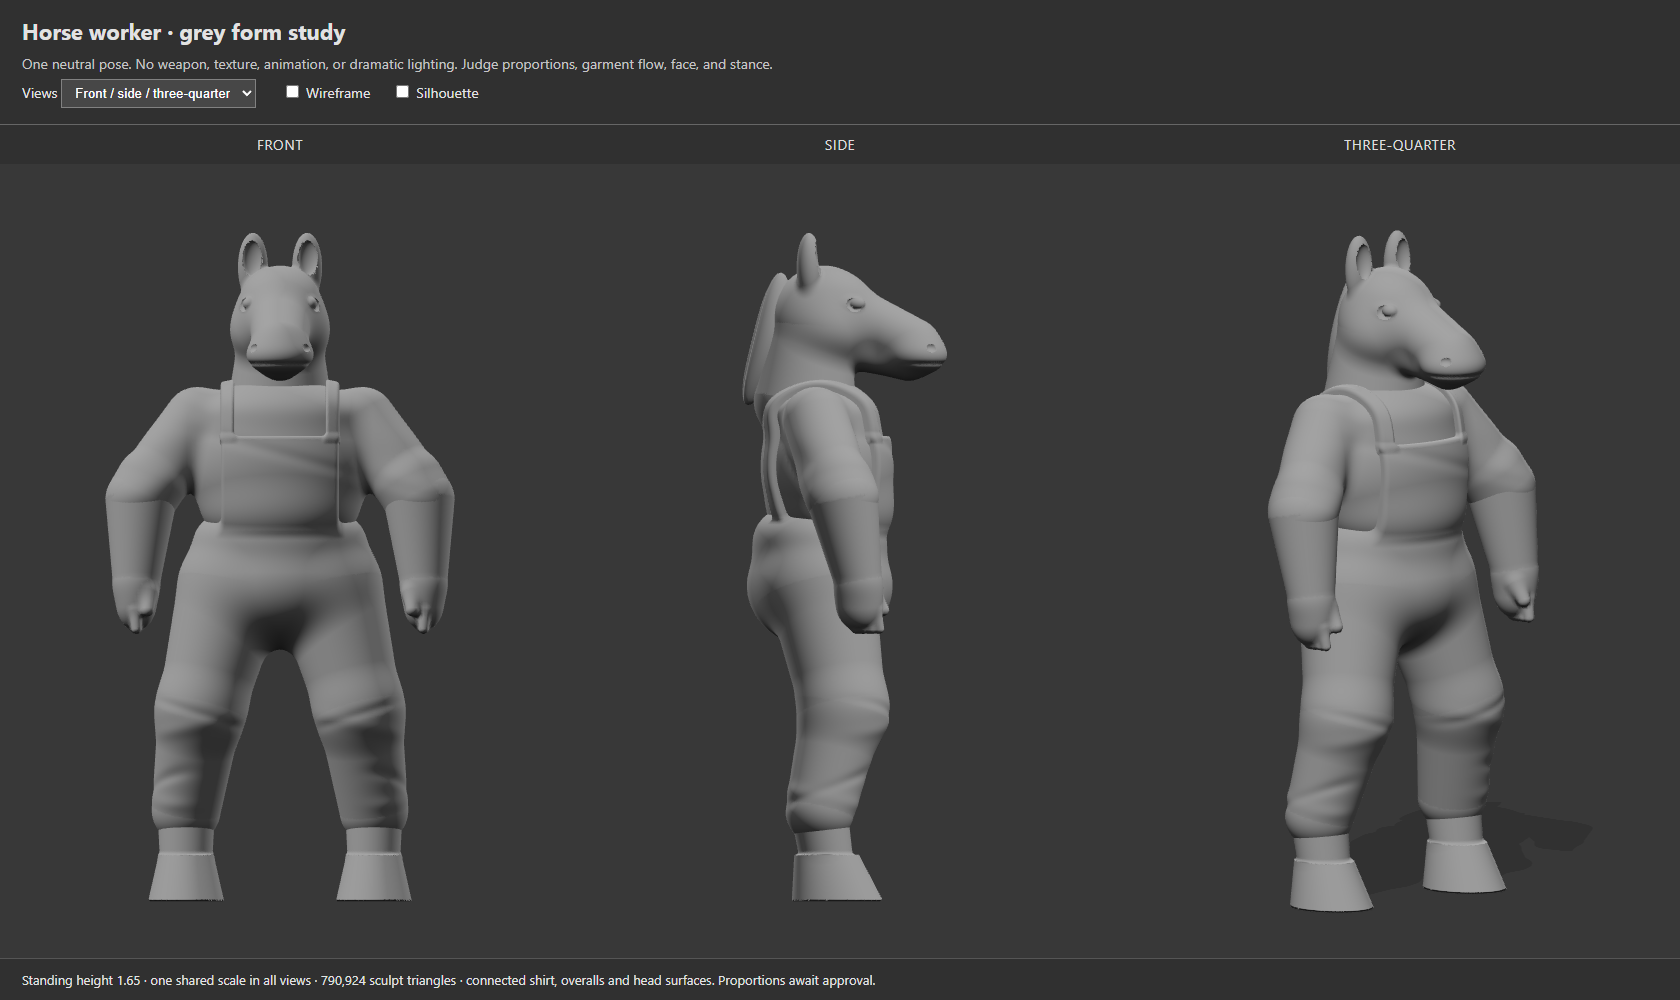
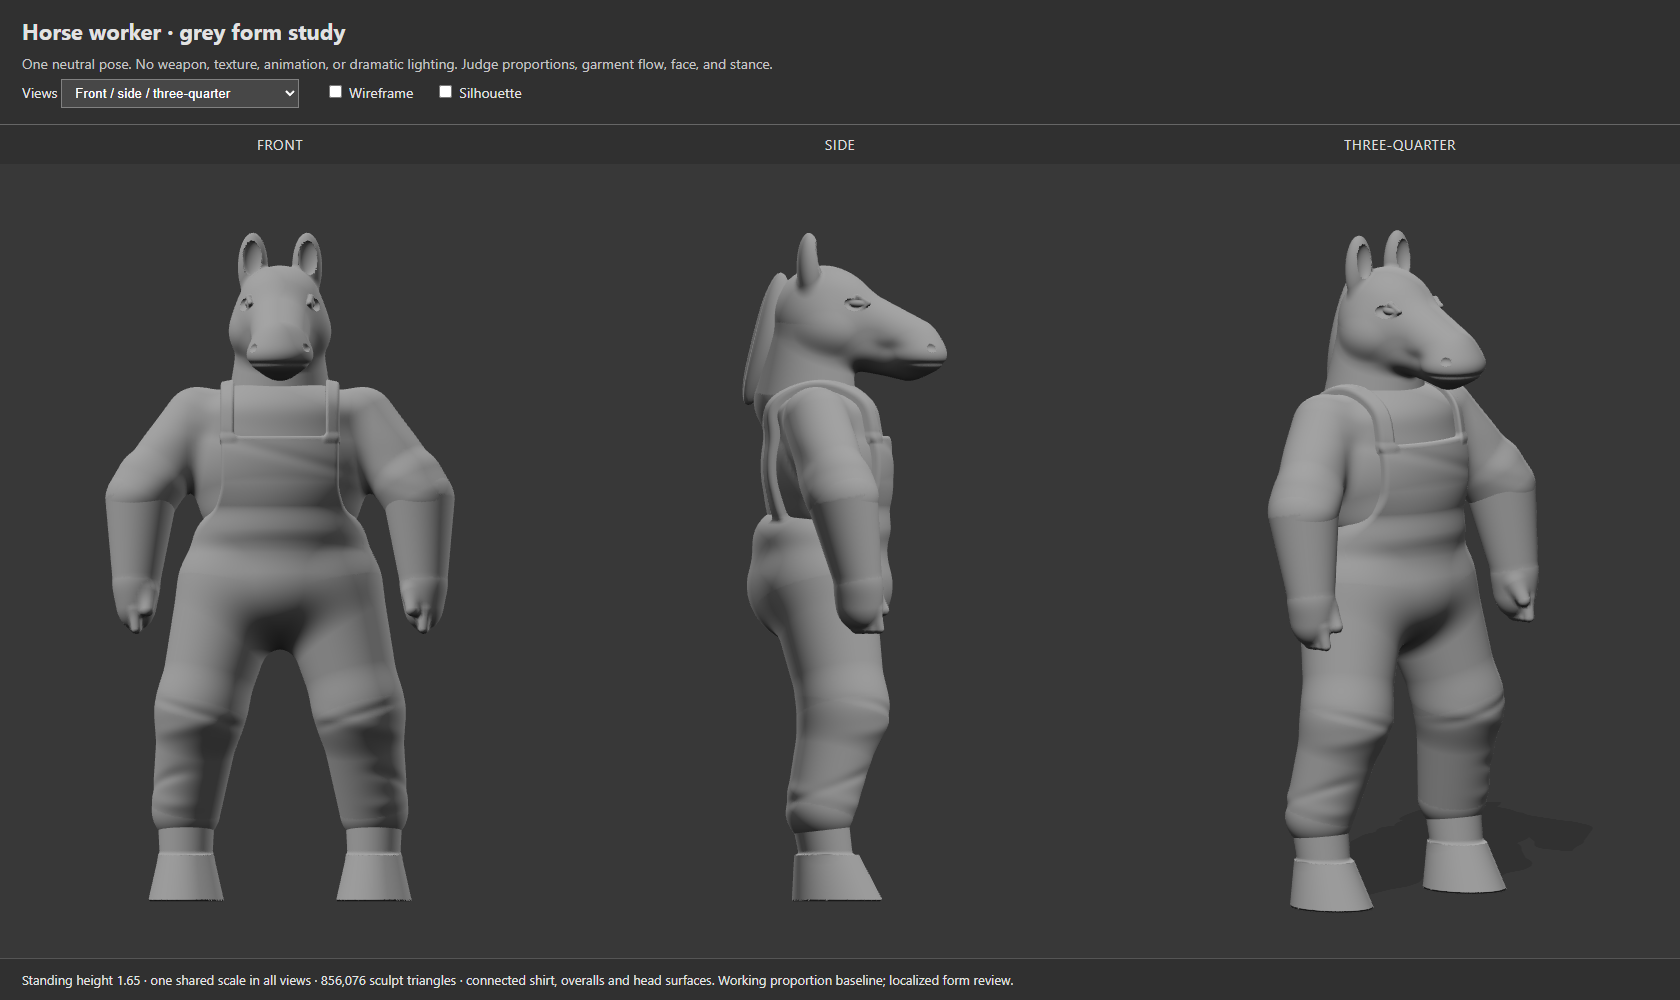
Refine horse face and waist with native sprite comparison

diff --git a/dist/tactics/horse-grey-viewer.js b/dist/tactics/horse-grey-viewer.js
@@ -1,4 +1,7 @@
 import * as THREE from './vendor/three.module.js';
+import {GAME_CAMERA} from './hybrid-world.js';
+import {unitArt} from './red-hats-art.js';
+import {alphaBounds,rigidSpriteVertex} from './hybrid-sprites.js';
 import {createGreyHorse} from './horse-grey-model.js';
 const host=document.getElementById('scene'),renderer=new THREE.WebGLRenderer({antialias:true});
 renderer.setPixelRatio(Math.min(devicePixelRatio,2));renderer.outputColorSpace=THREE.SRGBColorSpace;renderer.setClearColor(0x383838);
@@ -10,16 +13,27 @@ const fill=new THREE.DirectionalLight(0xffffff,1.05);fill.position.set(-3,2,-4);
 const floor=new THREE.Mesh(new THREE.PlaneGeometry(200,200),new THREE.ShadowMaterial({color:0x000000,opacity:.13}));floor.rotation.x=-Math.PI/2;floor.position.y=-.003;floor.receiveShadow=true;scene.add(floor);
 await new Promise(resolve=>setTimeout(resolve,60));
 const horse=createGreyHorse();scene.add(horse.root);for(const p of horse.parts)p.receiveShadow=false;const d=horse.diagnostics();
-document.getElementById('status').textContent=`Standing height 1.65 · one shared scale in all views · ${d.triangles.toLocaleString()} sculpt triangles · connected shirt, overalls and head surfaces. Proportions await approval.`;
+const art=unitArt({species:'horse',outfit:'normal',weapon:'rifle',stance:'standing'});
+const texture=await new THREE.TextureLoader().loadAsync(art.src);texture.colorSpace=THREE.SRGBColorSpace;texture.magFilter=texture.minFilter=THREE.NearestFilter;texture.generateMipmaps=false;
+const source=document.createElement('canvas');source.width=art.width;source.height=art.height;const ctx=source.getContext('2d',{willReadFrequently:true});ctx.drawImage(texture.image,0,0);const bounds=alphaBounds(ctx.getImageData(0,0,art.width,art.height).data,art.width,art.height);
+const spriteMaterial=new THREE.MeshBasicMaterial({map:texture,alphaTest:.4,side:THREE.DoubleSide,toneMapped:false});
+const sprite=new THREE.Mesh(new THREE.PlaneGeometry(1,1),spriteMaterial);scene.add(sprite);sprite.visible=false;
+const pos=sprite.geometry.attributes.position,uv=sprite.geometry.attributes.uv;
+for(let i=0;i<pos.count;i++)pos.setXYZ(i,...rigidSpriteVertex({heading:0},art,bounds,uv.getX(i)*art.width,(1-uv.getY(i))*art.height,GAME_CAMERA));
+sprite.geometry.computeBoundingSphere();
+document.getElementById('status').textContent=`Standing height 1.65 · one shared scale in all views · ${d.triangles.toLocaleString()} sculpt triangles · connected shirt, overalls and head surfaces. Working proportion baseline; localized form review.`;
 const flat=new THREE.MeshBasicMaterial({color:0x111111}),cameras=[0,1,2].map(()=>new THREE.OrthographicCamera());
 function render(){
  const width=host.clientWidth,height=host.clientHeight;renderer.setSize(width,height);renderer.setScissorTest(true);
- const span=Math.max(1.96,3.1*height/width),directions=[[4.015,.84,0],document.getElementById('view').value==='rear'?[-3.985,.84,0]:[.015,.84,4],[4.015,1.65,4]];
- for(let i=0;i<3;i++){const x=Math.round(i*width/3),right=Math.round((i+1)*width/3),w=right-x,c=cameras[i];c.left=-span*w/height/2;c.right=span*w/height/2;c.top=span/2;c.bottom=-span/2;c.near=.1;c.far=50;c.position.fromArray(directions[i]);c.lookAt(.015,.84,0);c.updateProjectionMatrix();renderer.setViewport(x,0,w,height);renderer.setScissor(x,0,w,height);renderer.render(scene,c);}
- renderer.setScissorTest(false);
+ const gameplay=document.getElementById('view').value==='gameplay';
+ const count=gameplay?2:3;
+ const span=gameplay?height/58:Math.max(1.96,3.1*height/width),directions=[[4.015,.84,0],document.getElementById('view').value==='rear'?[-3.985,.84,0]:[.015,.84,4],[4.015,1.65,4]];
+ for(let i=0;i<count;i++){const x=Math.round(i*width/count),right=Math.round((i+1)*width/count),w=right-x,c=cameras[i];c.left=-span*w/height/2;c.right=span*w/height/2;c.top=span/2;c.bottom=-span/2;c.near=.1;c.far=50;c.position.fromArray(directions[i]);if(gameplay){const {azimuth:a,elevation:e}=GAME_CAMERA;c.position.set(Math.sin(a)*Math.cos(e)*4,.84+Math.sin(e)*4,Math.cos(a)*Math.cos(e)*4);c.lookAt(0,.84,0);}else c.lookAt(.015,.84,0);
+ horse.root.visible=!gameplay||i===1;sprite.visible=gameplay&&i===0;sprite.quaternion.copy(c.quaternion);floor.visible=!gameplay&&!document.getElementById('silhouette').checked;c.updateProjectionMatrix();renderer.setViewport(x,0,w,height);renderer.setScissor(x,0,w,height);renderer.render(scene,c);}
+ horse.root.visible=true;sprite.visible=false;renderer.setScissorTest(false);
 }
-function update(){const silhouette=document.getElementById('silhouette').checked;for(const p of horse.parts)p.material=silhouette?flat:horse.material;horse.material.wireframe=document.getElementById('wire').checked;floor.visible=!silhouette;document.getElementById('middle').textContent=document.getElementById('view').value==='rear'?'REAR':'SIDE';render();}
+function update(){const gameplay=document.getElementById('view').value==='gameplay';host.style.cssText=gameplay?'flex:none;width:min(480px,100%);height:240px;min-height:240px;align-self:center':'';document.getElementById('views').innerHTML=gameplay?'<span>ORIGINAL SPRITE</span><span>GREY MODEL</span>':'<span>FRONT</span><span id="middle">SIDE</span><span>THREE-QUARTER</span>';document.getElementById('views').style.gridTemplateColumns=gameplay?'repeat(2,1fr)':'repeat(3,1fr)';document.getElementById('views').style.width=gameplay?'min(480px,100%)':'100%';document.getElementById('views').style.alignSelf='center';document.getElementById('comparison-note').hidden=!gameplay;const silhouette=document.getElementById('silhouette').checked;for(const p of horse.parts)p.material=silhouette?flat:horse.material;horse.material.wireframe=document.getElementById('wire').checked;spriteMaterial.color.setHex(silhouette?0x000000:0xffffff);floor.visible=!silhouette;if(!gameplay)document.getElementById('middle').textContent=document.getElementById('view').value==='rear'?'REAR':'SIDE';render();}
 for(const id of ['view','wire','silhouette'])document.getElementById(id).addEventListener('change',update);
-new ResizeObserver(render).observe(host);update();
-window.greyHorseDiagnostics=()=>({...d,view:document.getElementById('view').value,material:horse.material.color.getHexString(),render:{triangles:renderer.info.render.triangles,calls:renderer.info.render.calls}});
+new ResizeObserver(render).observe(host);if(new URLSearchParams(location.search).get('view')==='gameplay')document.getElementById('view').value='gameplay';update();
+window.greyHorseDiagnostics=()=>({...d,view:document.getElementById('view').value,material:horse.material.color.getHexString(),comparison:{pixelsPerUnit:host.clientHeight/(cameras[0].top-cameras[0].bottom),azimuth:GAME_CAMERA.azimuth,elevation:GAME_CAMERA.elevation,sprite:art.src,viewportHeight:host.clientHeight,span:cameras[0].top-cameras[0].bottom},render:{triangles:renderer.info.render.triangles,calls:renderer.info.render.calls}});
 window.greyHorseReady=true;

diff --git a/dist/tactics/horse-grey-model.js b/dist/tactics/horse-grey-model.js
@@ -23,6 +23,8 @@ export function createGreyHorse(){
   d+=.0035*Math.sin((y-1.0)*45+abs(z)*12)*sleeve;
   const chest=exp(-(((x-.13)/.065)**2))*exp(-(((y-1.13)/.15)**2));
   d+=.003*exp(-(((y-1.105-z*.28)/.018)**2))*chest;
+  // Tuck the torso into the waist; sleeves retain their independent hanging hem.
+  d=clothEdge(d,.934-y-Math.max(0,abs(z)-.205)*8);
   return d;
  }
  add('connected shirt and sleeves',shirt,[-.26,.80,-.48],[.23,1.34,.48],.010);
@@ -37,8 +39,9 @@ export function createGreyHorse(){
   // Seat/waist and both legs are one field, with a real crotch arch.
   // Low bib follows the chest; straps rise from it rather than floating on a yoke.
   // Thin cloth follows the actual shirt field, merging into the waistband.
-  const bib=clothEdge(shirt(x,y,z)-.017,abs(z)-.145,.91-y,y-1.15,.035-x);
-  d=blend(d,bib,.018);
+  const waistT=Math.max(0,Math.min(1,(1.035-y)/.115)),waistEase=waistT*waistT*(3-2*waistT);
+  const bib=clothEdge(shirt(x,y,z)-.017*(1-waistEase),abs(z)-(.145+.025*waistEase),.91-y,y-1.15,.035-x);
+  d=blend(d,bib,.018+.055*waistEase);
   const strapBottom=.94+.20*Math.max(0,Math.min(1,(x+.03)/.12));
   const strap=clothEdge(shirt(x,y,z)-.017,abs(abs(z)-.13)-.017,strapBottom-y);d=blend(d,strap,.012);
   // Local oblique creases: directional compression, never rings around the legs.
@@ -87,18 +90,27 @@ export function createGreyHorse(){
   d=blend(d,C(x,y,z,[-.012,1.385,0],[.181,1.329,0],.060,.040),.025);
   for(const side of [-1,1]){
    d=blend(d,E(x,y,z,[-.062,1.567,side*.067],[.030,.085,.037]),.014);
-   d=blend(d,E(x,y,z,[.030,1.473,side*.066],[.041,.021,.027]),.014);
-   d=Math.max(d,-E(x,y,z,[.059,1.477,side*.098],[.027,.022,.020]));
-   d=blend(d,E(x,y,z,[.056,1.477,side*.075],[.021,.016,.017]),.004);
+   // Cheek ridge and mandibular edge flow into the skull, not separate facial beads.
+   d=blend(d,E(x,y,z,[-.023,1.404,side*.072],[.059,.045,.044]),.026);
+   d=blend(d,E(x,y,z,[.025,1.367,side*.036],[.088,.028,.030]),.038);
+   d=Math.max(d,-E(x,y,z,[.059,1.477,side*.098],[.033,.019,.023]));
+   d=blend(d,E(x,y,z,[.056,1.477,side*.070],[.026,.012,.017]),.003);
+   // Two slender lid rims frame an almond opening; the globe stays behind them.
+   d=blend(d,C(x,y,z,[.030,1.481,side*.072],[.061,1.493,side*.078],.007,.006),.005);
+   d=blend(d,C(x,y,z,[.061,1.493,side*.078],[.086,1.478,side*.073],.006,.005),.005);
+   d=blend(d,C(x,y,z,[.030,1.478,side*.072],[.063,1.462,side*.076],.005,.005),.004);
+   d=blend(d,C(x,y,z,[.063,1.462,side*.076],[.086,1.478,side*.073],.005,.005),.004);
    d=Math.max(d,-E(x,y,z,[.250,1.370,side*.077],[.021,.015,.020]));
    // Inner ear indentation and an integrated orbital ridge, not attached eye puffs.
    d=Math.max(d,-E(x,y,z,[-.039,1.589,side*.069],[.018,.044,.023]));
   }
+  // Shallow facial plane break behind each nostril and above the jaw.
+  d+=.004*exp(-(((x-.141)/.047)**2))*exp(-(((y-1.366)/.018)**2))*exp(-(((abs(z)-.069)/.025)**2));
   const lipY=1.329,lipMask=Math.max(0,Math.min(1,(x-.16)/.05));
   d+=.0025*exp(-(((y-lipY)/.006)**2))*lipMask;
   return d;
  }
- add('unified skull jaw neck and ears',head,[-.23,1.11,-.155],[.315,1.68,.155],.0055);
+ add('unified skull jaw neck and ears',head,[-.23,1.11,-.155],[.315,1.68,.155],.0045);
 
  // Hair is a single attached crest, following the rear neck/skull silhouette.
  function mane(x,y,z){

diff --git a/dist/tactics/horse-grey.html b/dist/tactics/horse-grey.html
@@ -6,9 +6,9 @@
 </style>
 <header><h1>Horse worker · grey form study</h1>
 <p>One neutral pose. No weapon, texture, animation, or dramatic lighting. Judge proportions, garment flow, face, and stance.</p>
-<label>Views <select id="view"><option value="three">Front / side / three-quarter</option><option value="rear">Front / rear / three-quarter</option></select></label>
+<label>Views <select id="view"><option value="three">Front / side / three-quarter</option><option value="gameplay">Gameplay-size sprite comparison</option><option value="rear">Front / rear / three-quarter</option></select></label>
 <label><input type="checkbox" id="wire"> Wireframe</label><label><input type="checkbox" id="silhouette"> Silhouette</label>
 </header>
 <div id="views"><span>FRONT</span><span id="middle">SIDE</span><span>THREE-QUARTER</span></div>
-<div id="scene"></div><footer id="status">Building connected sculpt surfaces…</footer>
+<div id="scene"></div><p id="comparison-note" hidden style="text-align:center;padding:0 20px">Native comparison scale: 58 CSS pixels per world unit, prototype isometric camera. Original armed sprite versus neutral unarmed grey model; pose and rifle affect silhouette. Silhouette control applies to both.</p><footer id="status">Building connected sculpt surfaces…</footer>
 <script type="module" src="./horse-grey-viewer.js"></script></html>

diff --git a/docs/tactics/HYBRID-GREY-FORM-STUDY.md b/docs/tactics/HYBRID-GREY-FORM-STUDY.md
@@ -4,7 +4,7 @@ This separate study responds to the request for deliberate character modeling be
 
 The shirt and sleeves form one connected surface. The overalls join the bib, straps, waist, seat and both legs. The horse skull, cheeks, jaw, neck, ears and eye forms share one surface. Substantial forearms, a broad stance and exposed horse hooves restore the worker silhouette. Modeled folds describe sleeve compression and fabric around the knees, ankles and seat. All parts use the same plain grey material without texture maps.
 
-Standing height remains 1.65 world units, with both hoof bearing surfaces at zero. Tactical rules and the existing renderer are unchanged. This is a static sculpt/proportion study: its 790,924 triangles are not a proposed gameplay budget. Retopology, UV authoring and rigging remain future work after the user approves the forms.
+Standing height remains 1.65 world units, with both hoof bearing surfaces at zero. Tactical rules and the existing renderer are unchanged. This is a static sculpt/proportion study: its 856,076 triangles are not a proposed gameplay budget. Retopology, UV authoring and rigging remain future work after the user approves the forms.
 
 ## Evidence and review
 
@@ -35,3 +35,15 @@ The first revision received 8/10 for remaining bead-like eyes, rigid mane locks,
 The second visual review scored 8.5/10, requesting less hollow eyes and cleaner bib/strap borders. The third revision brings the eye surface forward within the socket and bevels cloth boundaries with consistent clearance from the underlying shirt. Both focused checks pass on this revision.
 
 Final independent hostile review: **9/10 for the targeted finishing corrections**. The reviewer found the eyes seated within their sockets, continuous clean bib/strap borders across views, and independently passing geometry checks. Overall proportions still require the user's approval before texture or animation.
+
+## Local face and waist corrections; gameplay-size comparison
+
+The architect accepted `1fc4f94` proportions as the working baseline, requesting localized corrections before texture or animation. The shirt torso now tucks into the waist instead of hanging beneath the armpits. The lower bib widens and blends into the waist. Almond eyelid rims frame recessed eye surfaces, with integrated cheek/jaw volumes and a shallow muzzle plane break. Overall stance and prototype height remain unchanged.
+
+Select **Gameplay-size sprite comparison**, or open `/tactics/horse-grey.html?view=gameplay`. Both panels use the existing prototype camera (45-degree azimuth, 30-degree elevation) and native comparison scale of 58 CSS pixels per world unit. The original rifle sprite uses the existing `rigidSpriteVertex` calibration; the grey model keeps its physical dimensions. The silhouette toggle applies to both. The sprite is armed and posed while the model is neutral and unarmed, so rifle/arm silhouettes differ; no pose-matching claim is made.
+
+Evidence: `hybrid-review/grey-study/gameplay-size.png` and `gameplay-silhouettes.png`, alongside refreshed close views. The geometry test passes; browser checks verify actual camera pixels per unit and viewport size, and found no browser/network errors. This remains a sculpt study, not a runtime mesh, and texture/animation work is still pending review of this comparison.
+
+The first hostile review scored this local pass 8.5/10, accepting the native comparison implementation but flagging triangular lower-bib flaps. The revision eases the bib width, tapers cloth clearance into the waist, and progressively blends the surfaces. Eyelid separation is slightly increased. Geometry and browser checks pass again. At native size, ears, muzzle and stance carry most of the character recognition; the small facial details require the close views to judge. Pose differences remain visible and disclosed.
+
+Final independent hostile review: **9/10 for the localized corrections and native comparison**. The reviewer confirmed smooth curved bib-to-waist edges, retained cheek/jaw definition, correct comparison scale, disclosed pose differences, and an independently passing geometry test. Texture and animation remain pending.
